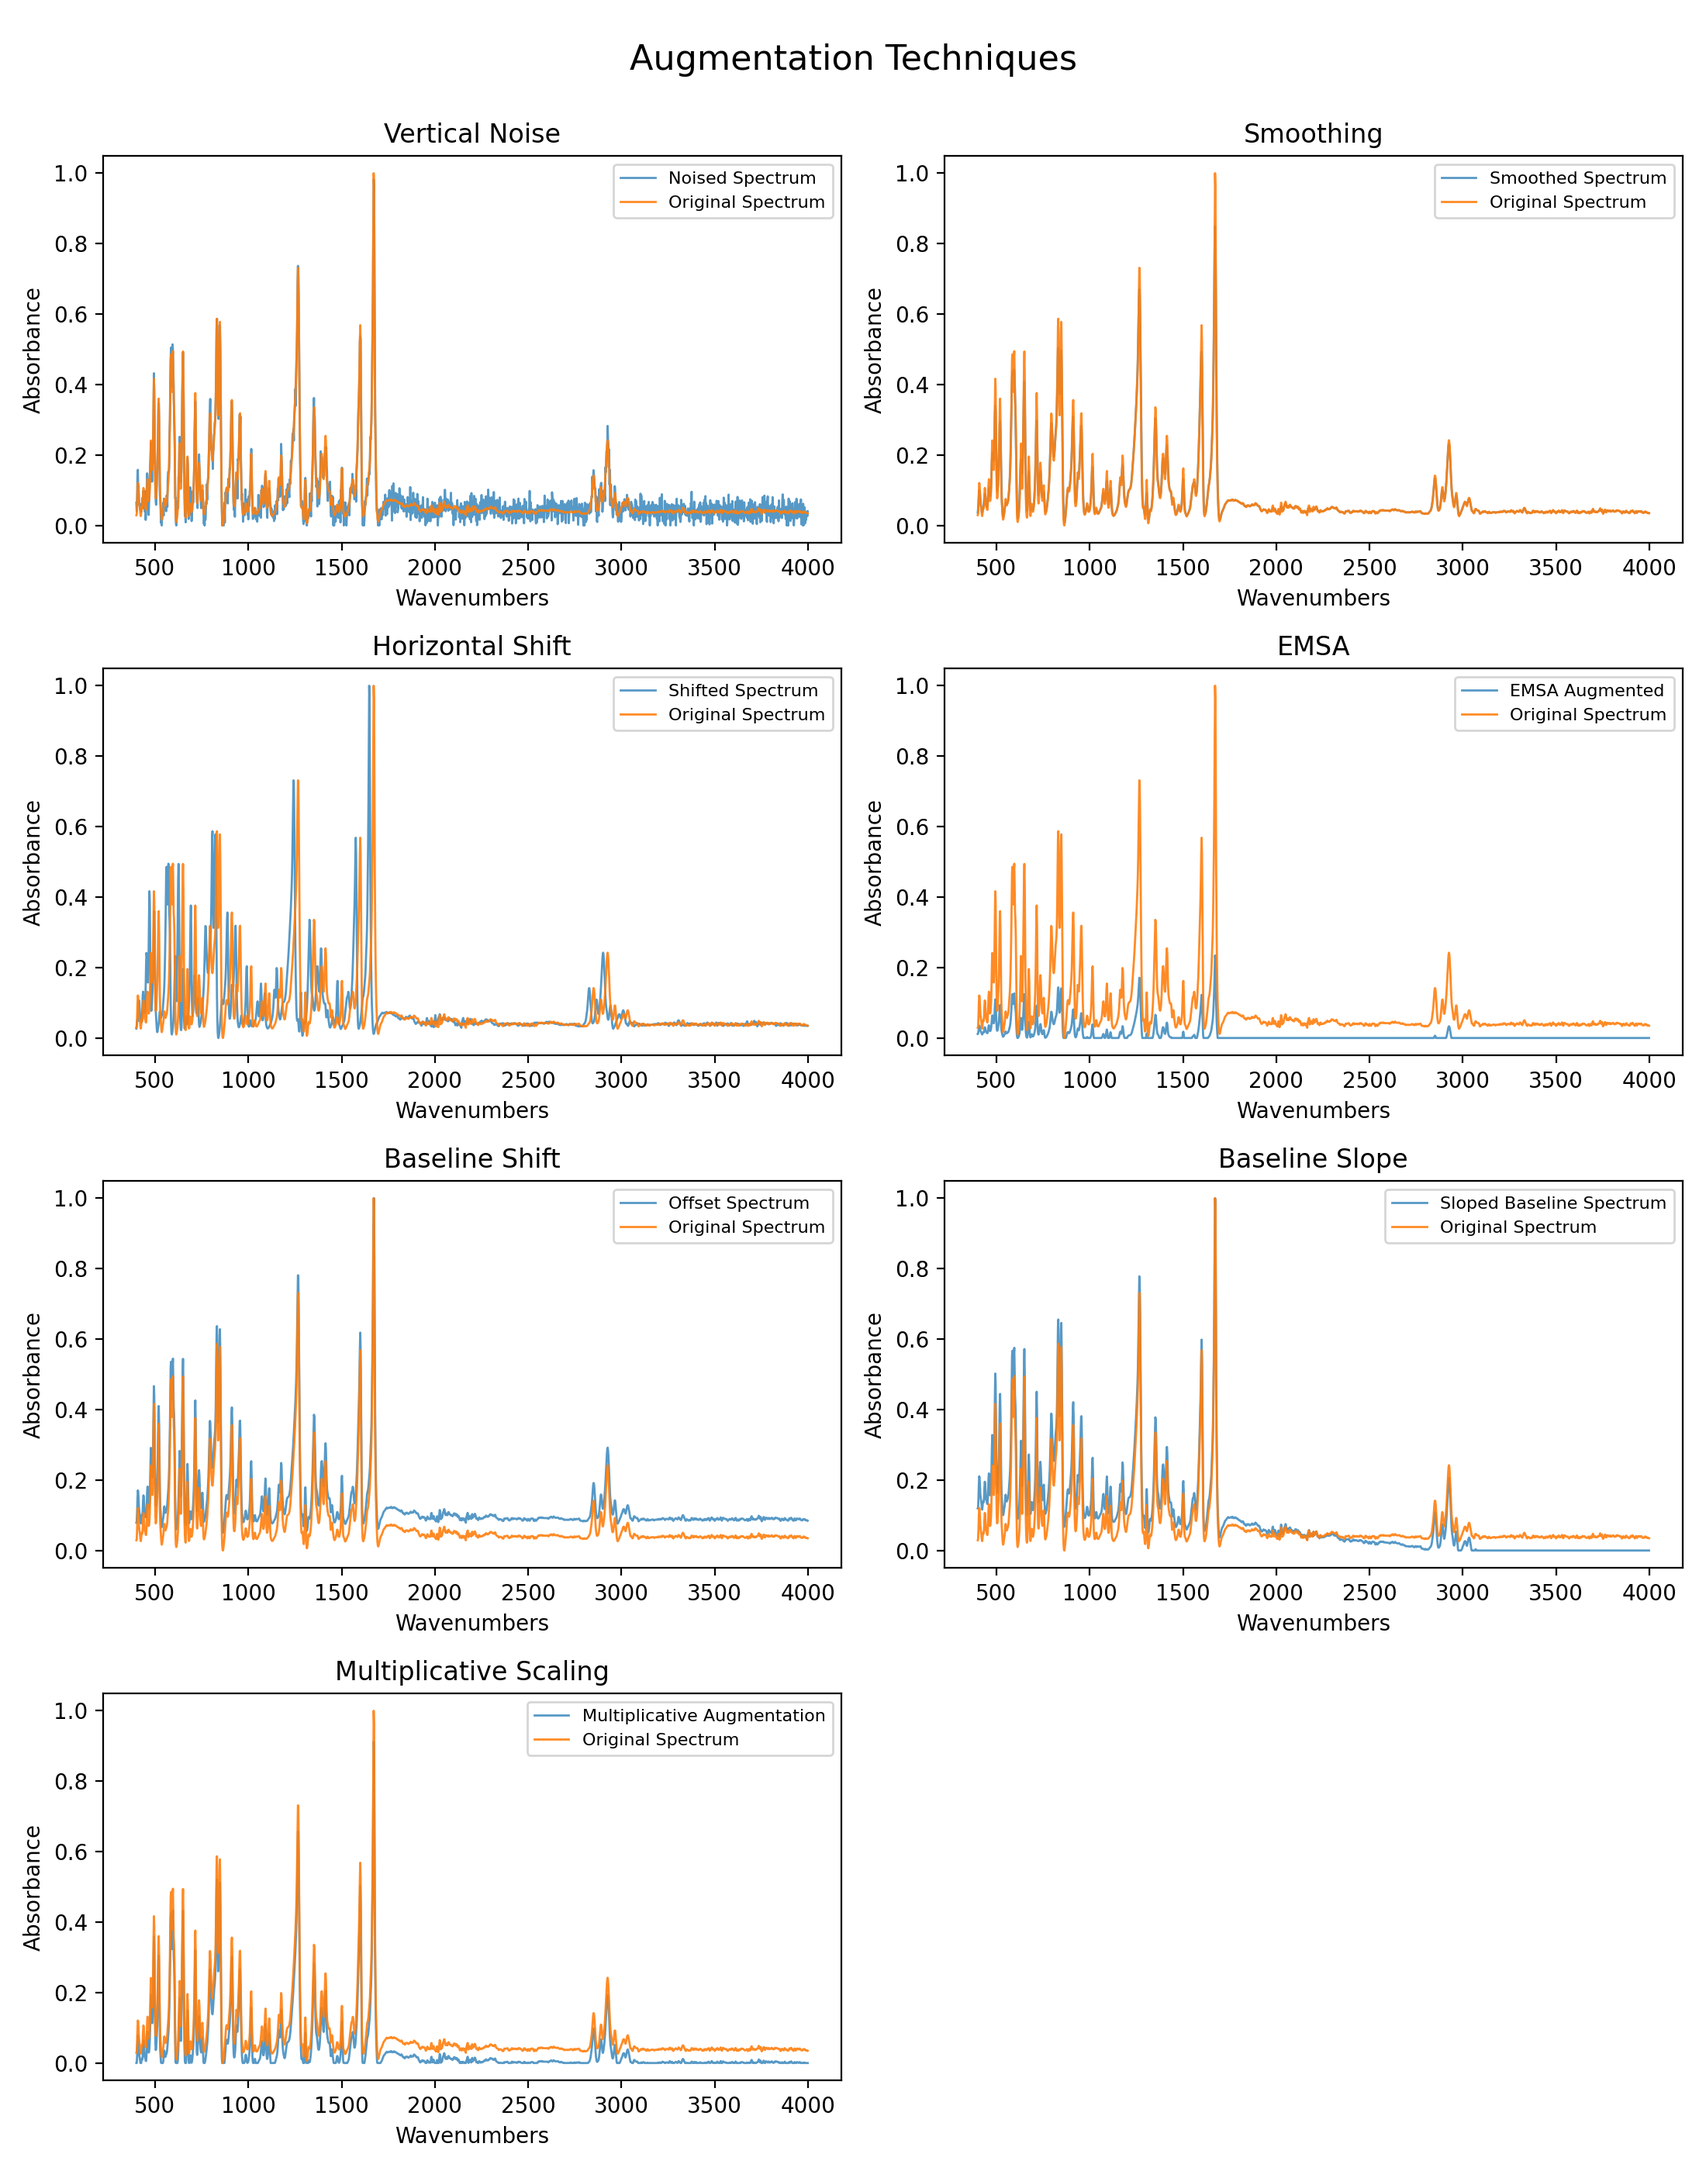
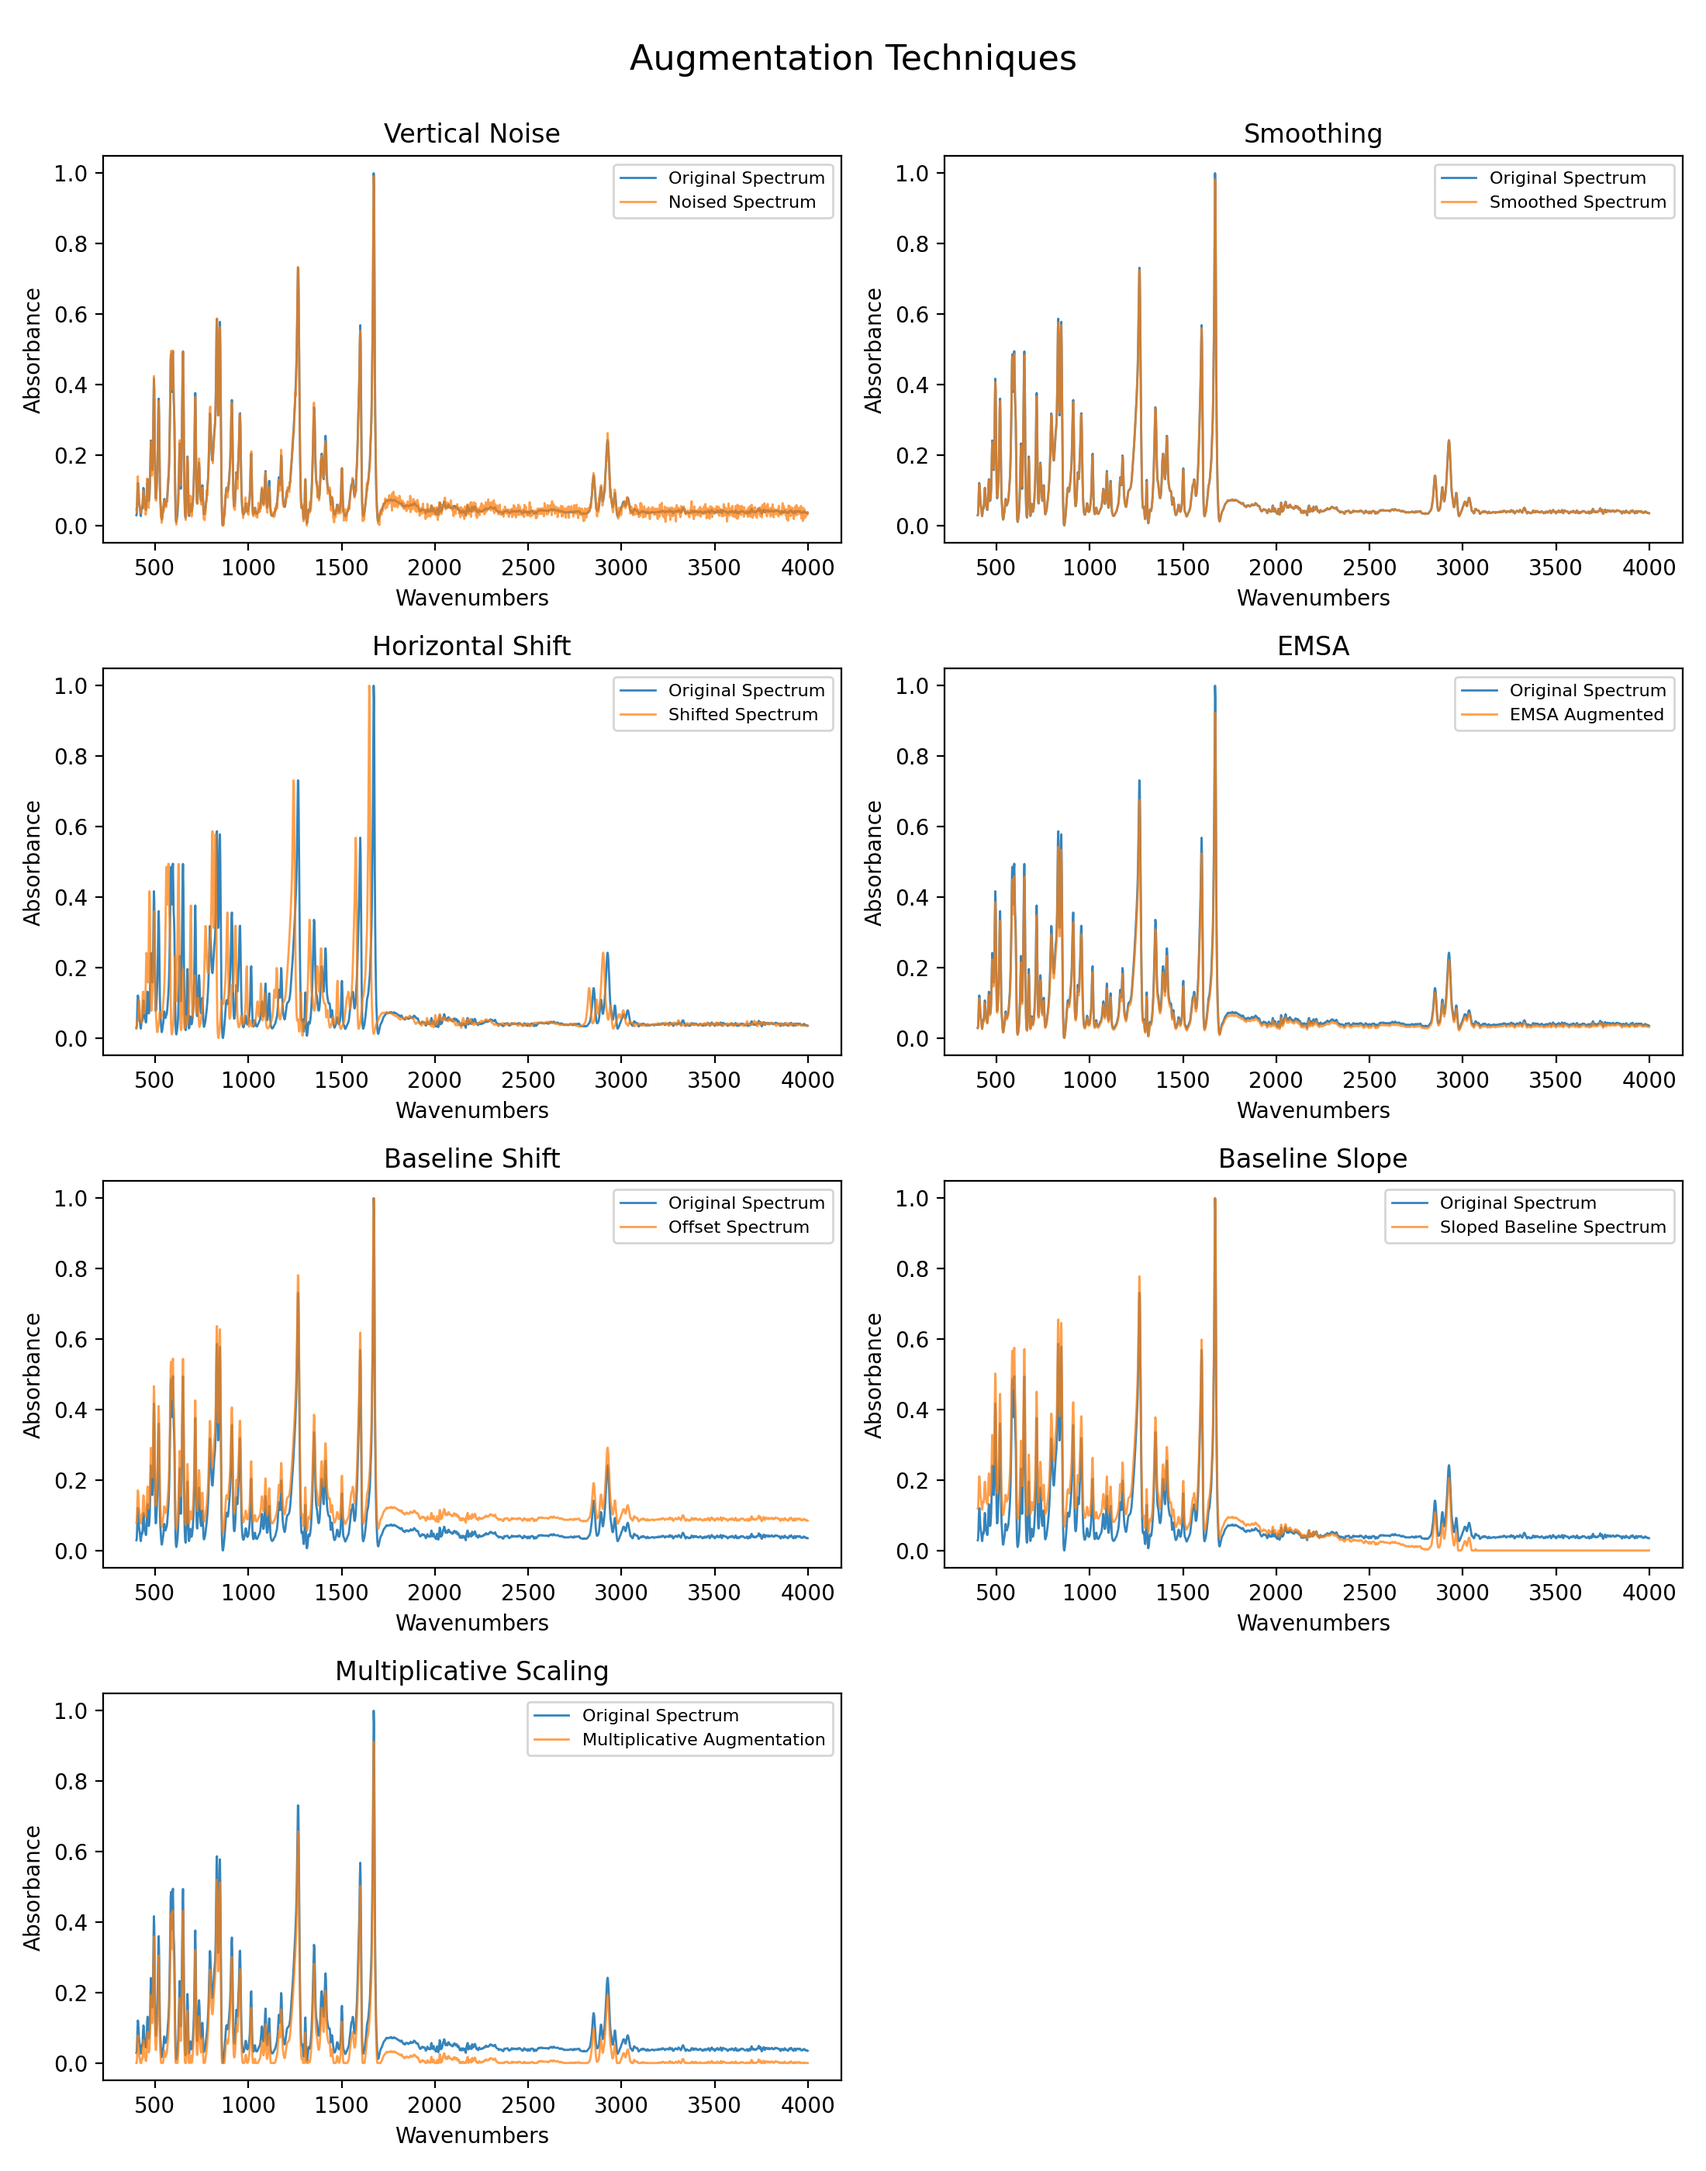
Add emsa strength adjustment

diff --git a/src/data/augmentation.py b/src/data/augmentation.py
@@ -88,7 +88,7 @@ def horizontal_shift(
 
 def vertical_noise(
     x: np.ndarray,
-    noise_std: float = 0.01,
+    noise_std: float = 0.005,
 ) -> np.ndarray:
     """Add random noise to one spectrum's intensity values.
 
@@ -201,6 +201,7 @@ def emsa(
 def fit_emsa_model(
     X_train: np.ndarray,
     order: int = 2,
+    strength: float = 0.01,
 ) -> EMSA:
     """Fit an EMSC-based EMSA model using the whole training set.
 
@@ -224,7 +225,7 @@ def fit_emsa_model(
         order=order,
     )
     coefs = np.dot(emsa_model.A, X_train.T)
-    emsa_model.std_of_params = coefs.std(axis=1)
+    emsa_model.std_of_params = coefs.std(axis=1) * strength
     return emsa_model
 
 

diff --git a/src/data/plot_augmentation_effects.py b/src/data/plot_augmentation_effects.py
@@ -15,10 +15,10 @@ wavenumbers = df["xdata"].iloc[0]
 spectrum = df["ydata"].iloc[0]
 X_train = np.stack(df["ydata"].values)
 
-emsa_model = fit_emsa_model(X_train)
+emsa_model = fit_emsa_model(X_train, strength= 0.1)
 
-noise_aug = vertical_noise(spectrum, noise_std=0.02)
-smooth_aug = smoothing(spectrum, sigma_range=(1.2, 2.0))
+noise_aug = vertical_noise(spectrum, noise_std=0.01)
+smooth_aug = smoothing(spectrum, sigma_range=(0.3, 0.8))
 shift_aug = horizontal_shift(spectrum, max_shift= 200)
 emsa_aug = emsa(spectrum, emsa_model)
 offset_aug = baseline_shift(spectrum, shift_range=(-0.08, 0.08))
